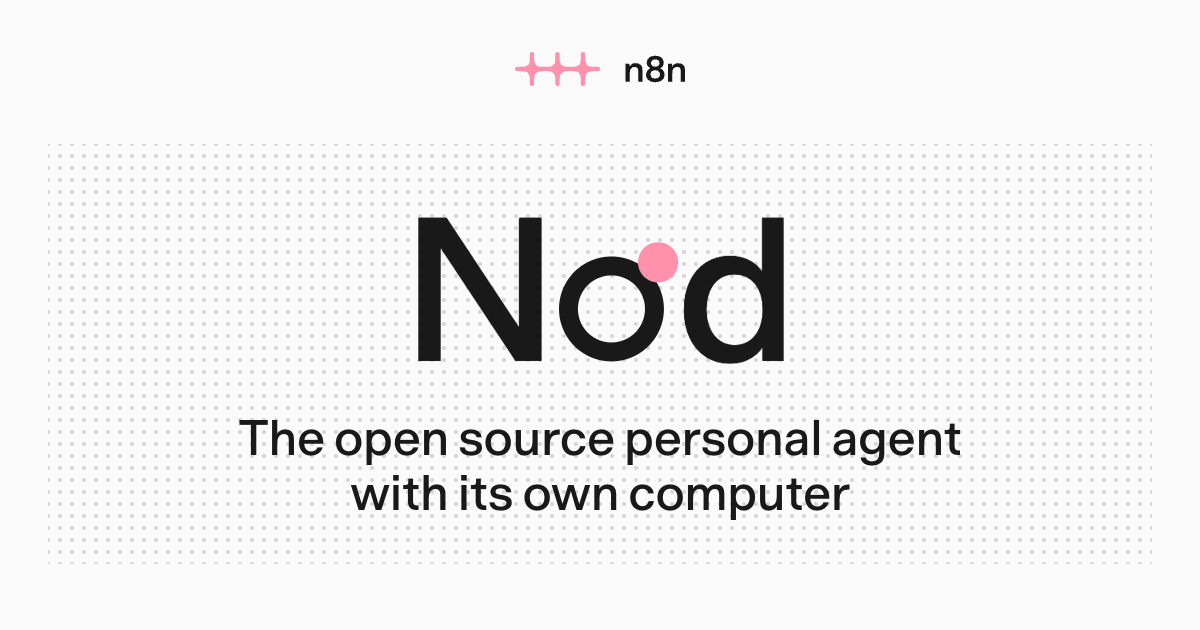
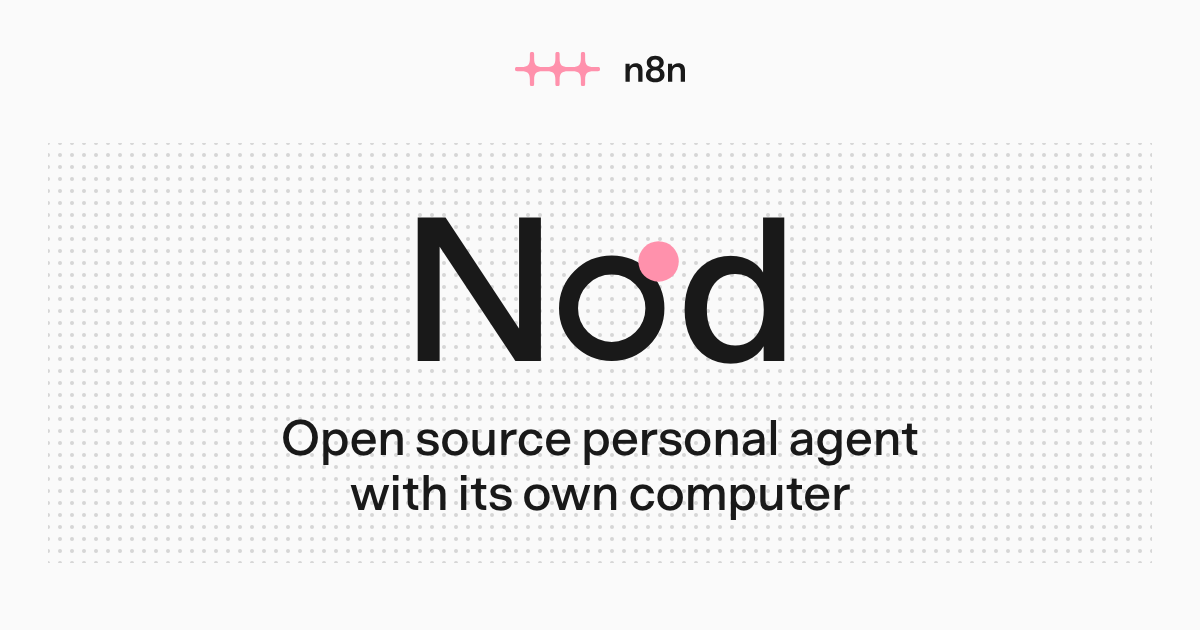
fix(landing): tidy the page on phones and match the social image to the tagline (#672)

diff --git a/docs/src/scripts/download.js b/docs/src/scripts/download.js
@@ -2,6 +2,7 @@ const installers = {
   'darwin-arm64': { path: 'mac', label: 'Download for Mac' },
   'darwin-x64': { path: 'mac-intel', label: 'Download for Mac' },
   'win32-x64': { path: 'windows', label: 'Download for Windows' },
+  mobile: { href: '/docs/get-started/install-desktop/', label: 'Install on your computer' },
 };
 
 async function detectPlatform(nav) {
@@ -10,7 +11,7 @@ async function detectPlatform(nav) {
     /iPhone|iPad|iPod|Android/i.test(agent) ||
     (/Macintosh/.test(agent) && nav.maxTouchPoints > 1)
   )
-    return null;
+    return 'mobile';
   const hints = nav.userAgentData;
   const platform = hints?.platform || nav.platform || agent;
   let architecture = '';
@@ -28,7 +29,7 @@ export function startDownload() {
     const installer = installers[platform];
     if (!installer) return;
     for (const link of links) {
-      link.href = link.href.replace(/[^/]+$/, installer.path);
+      link.href = installer.href ?? link.href.replace(/[^/]+$/, installer.path);
       if (link.dataset.download === 'label') link.textContent = installer.label;
     }
   });

diff --git a/docs/src/styles/nod.css b/docs/src/styles/nod.css
@@ -1794,8 +1794,17 @@ body.lp {
     padding: 0.625em 0.9375em;
   }
   .lp-hero {
-    padding: 40px 0;
+    padding: 40px 0 0;
     gap: 40px;
+  }
+  .lp-demo-photo {
+    padding: 12px;
+  }
+  .lp-footer-nav {
+    gap: 0 8px;
+  }
+  .lp-footer-nav a {
+    padding: 12px 8px;
   }
   .lp-hero-headline-frame {
     padding: 24px 9px;
